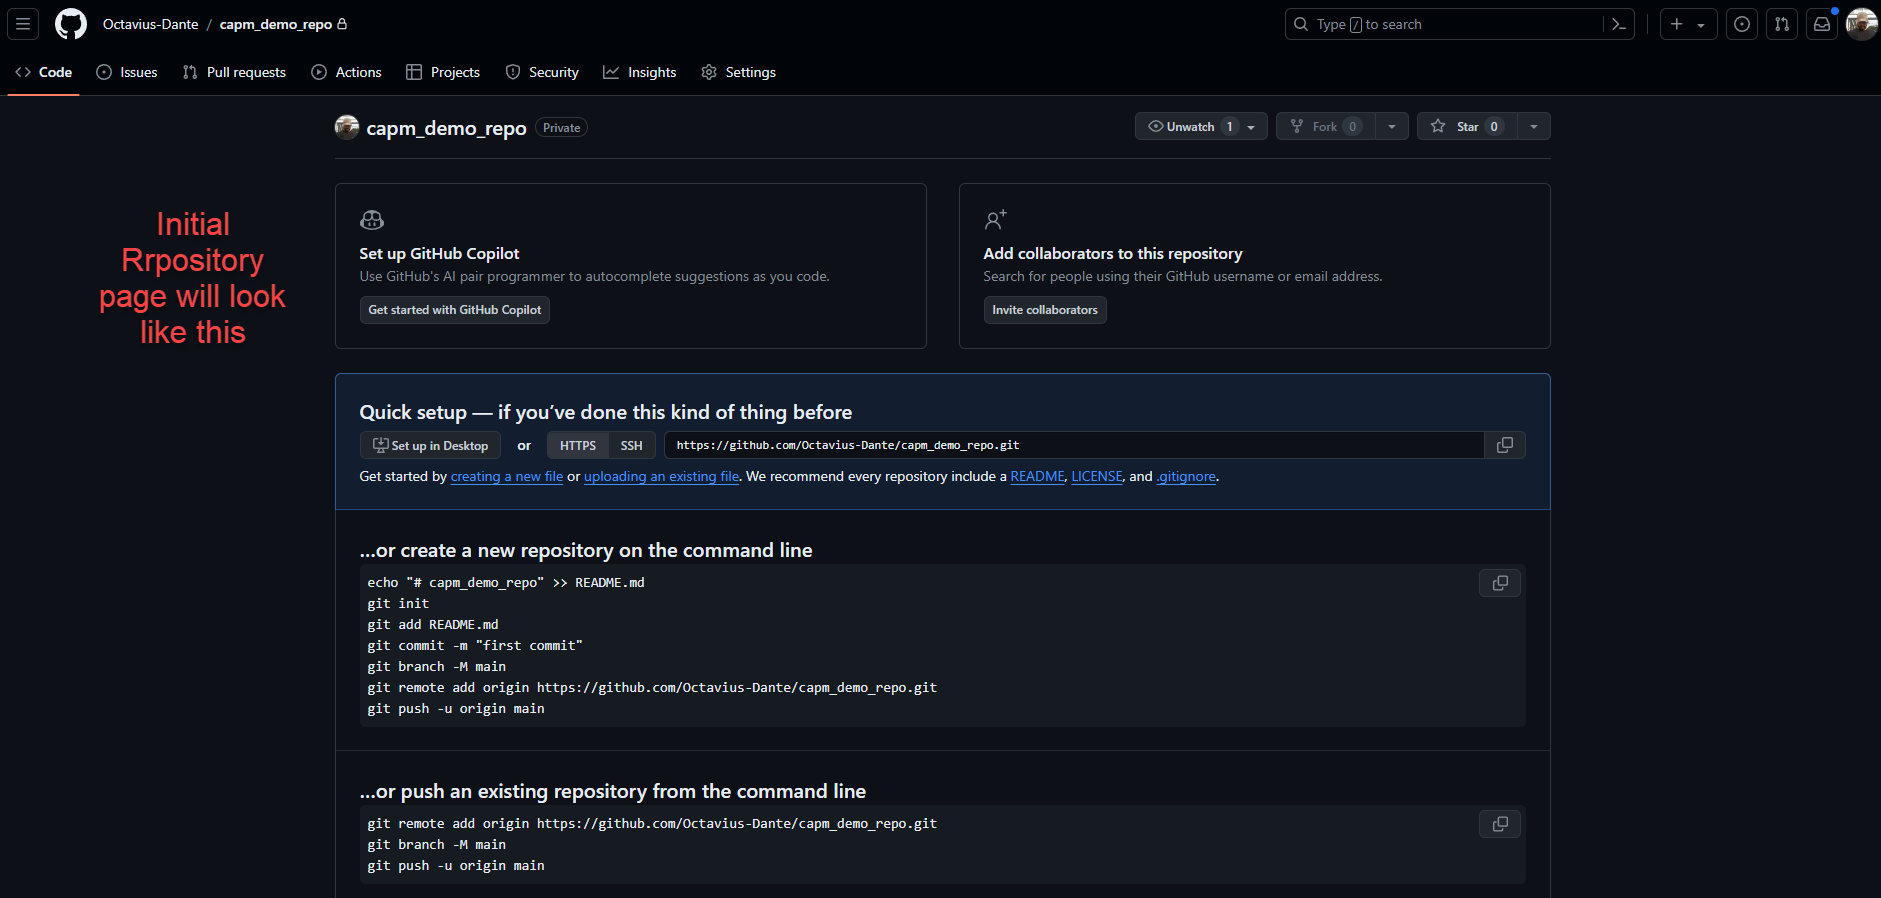
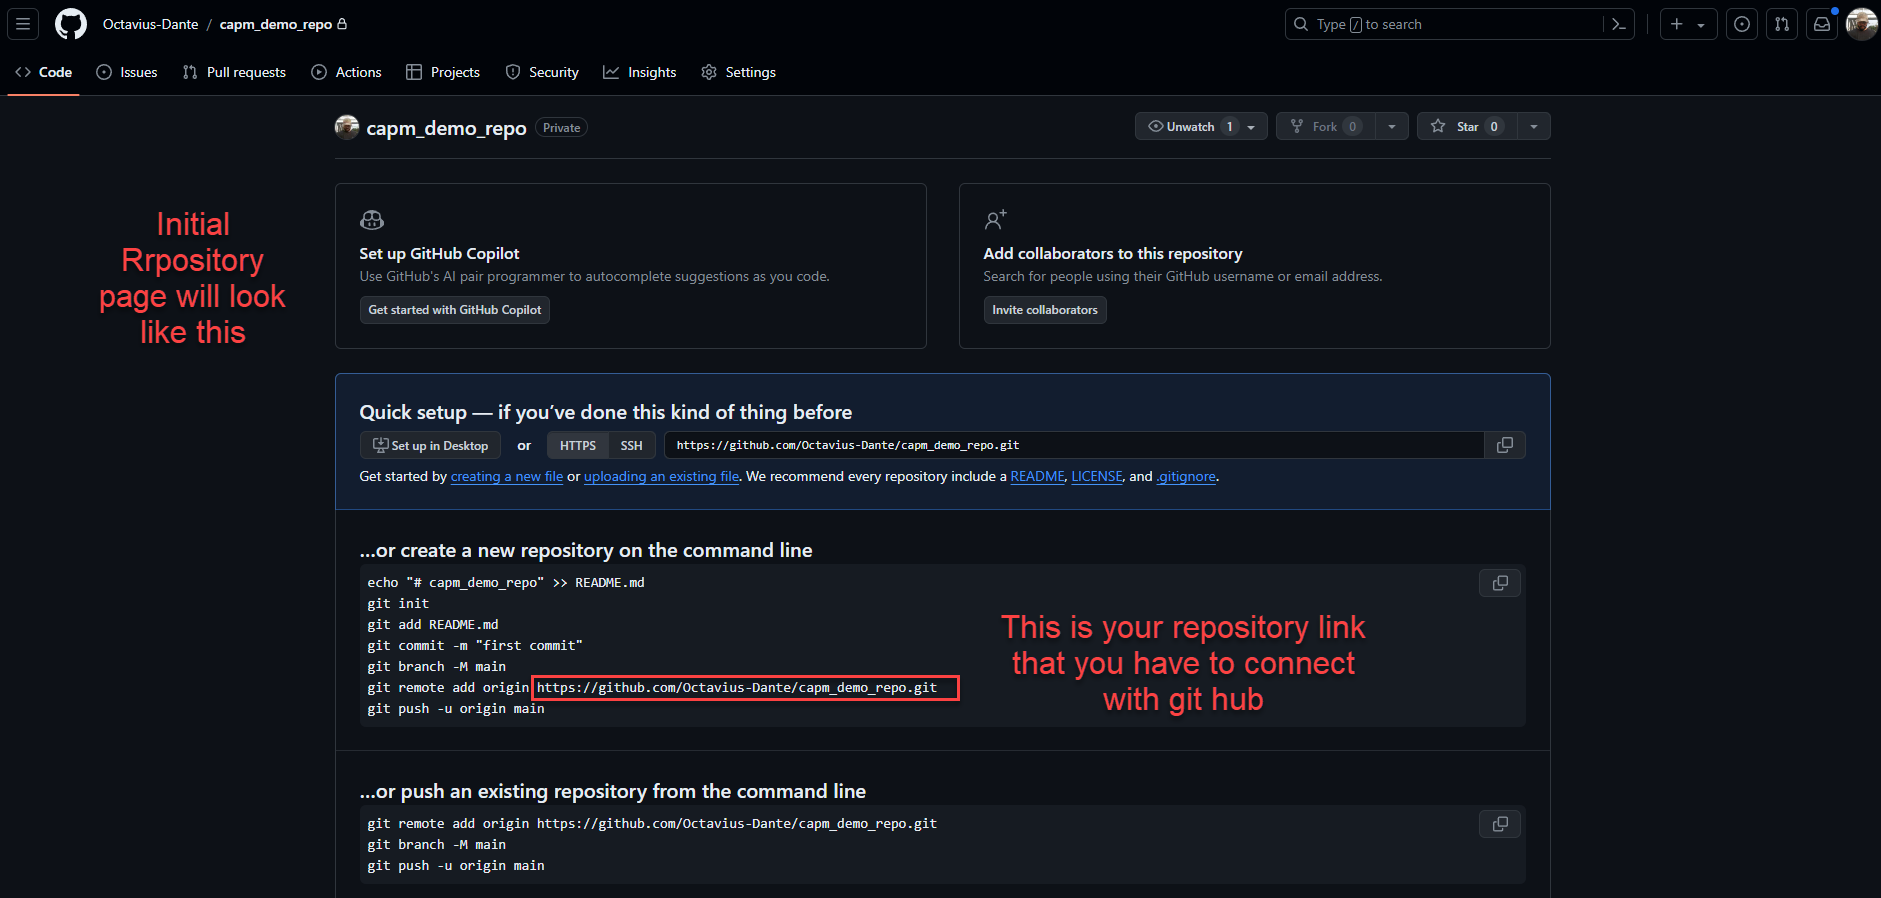
s

Changed region(s): [[0.5242, 0.686, 0.74, 0.8107], [0.2775, 0.7483, 0.5242, 0.7795]]

diff --git a/BAS_GIT_integration/Readme.md b/BAS_GIT_integration/Readme.md
@@ -38,6 +38,10 @@ Login to github account
 <img src="./files/bg_1.png" >
 </br>
 </br>
+
+Create a repository
+</br>
+</br>
 <img src="./files/bg_2.png" >
 </br>
 </br>
@@ -45,6 +49,10 @@ Login to github account
 </br>
 </br>
 <img src="./files/bg_4.png" >
+</br>
+</br>
+
+copy the link shown below 
 </br>
 </br>
 <img src="./files/bg_5.png" >
